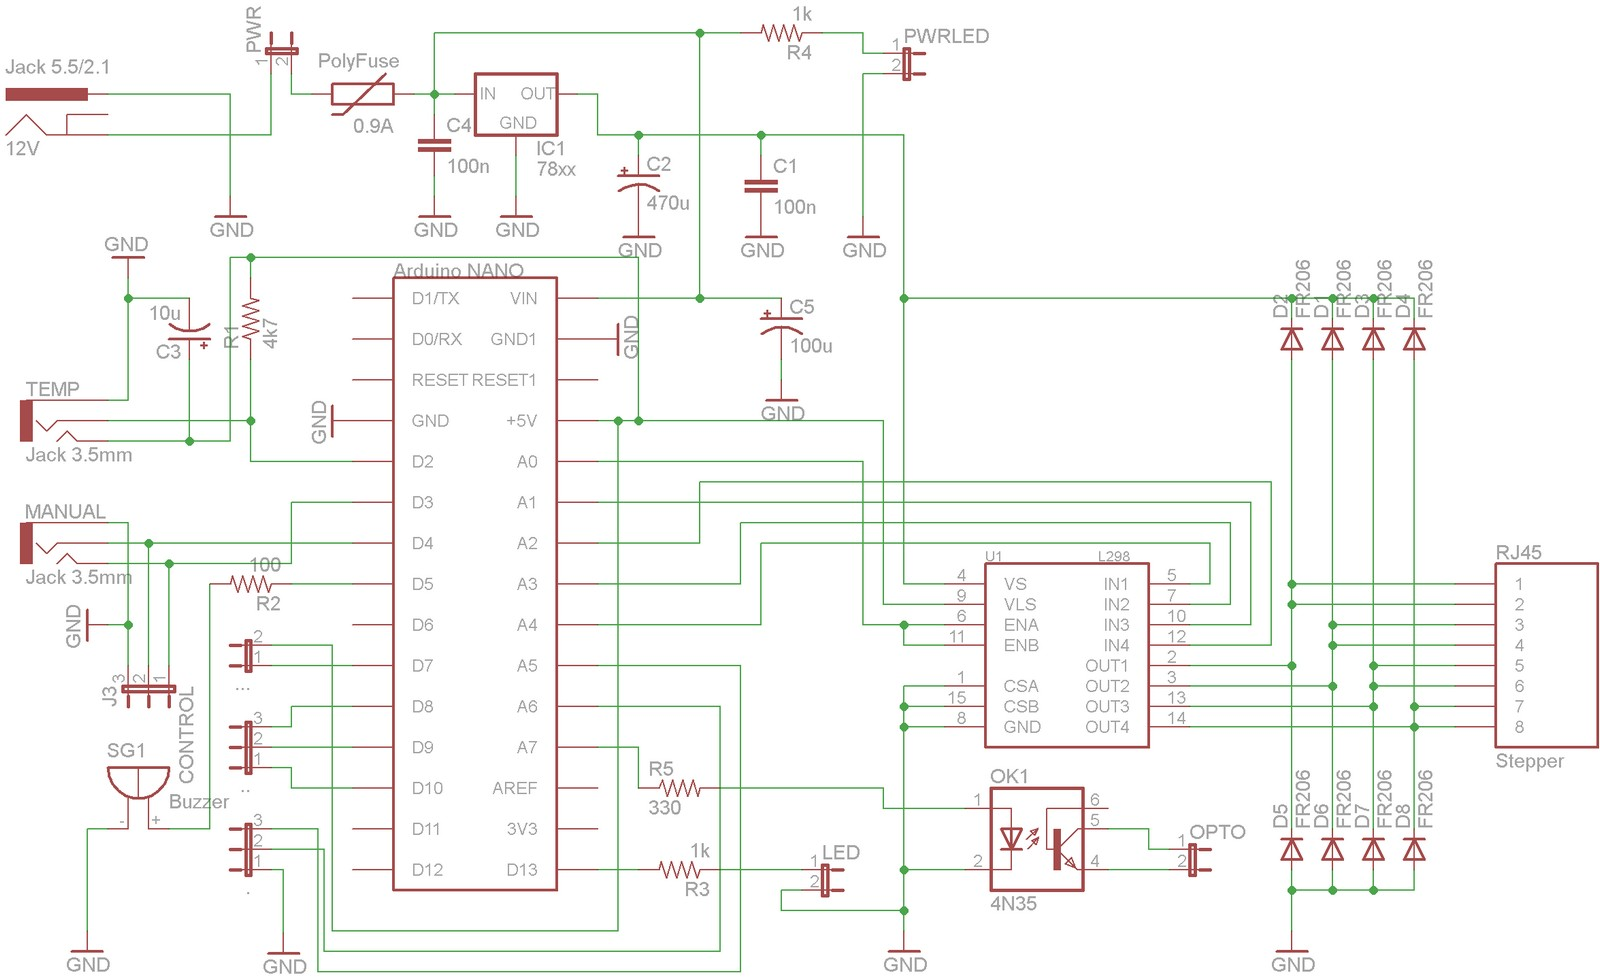
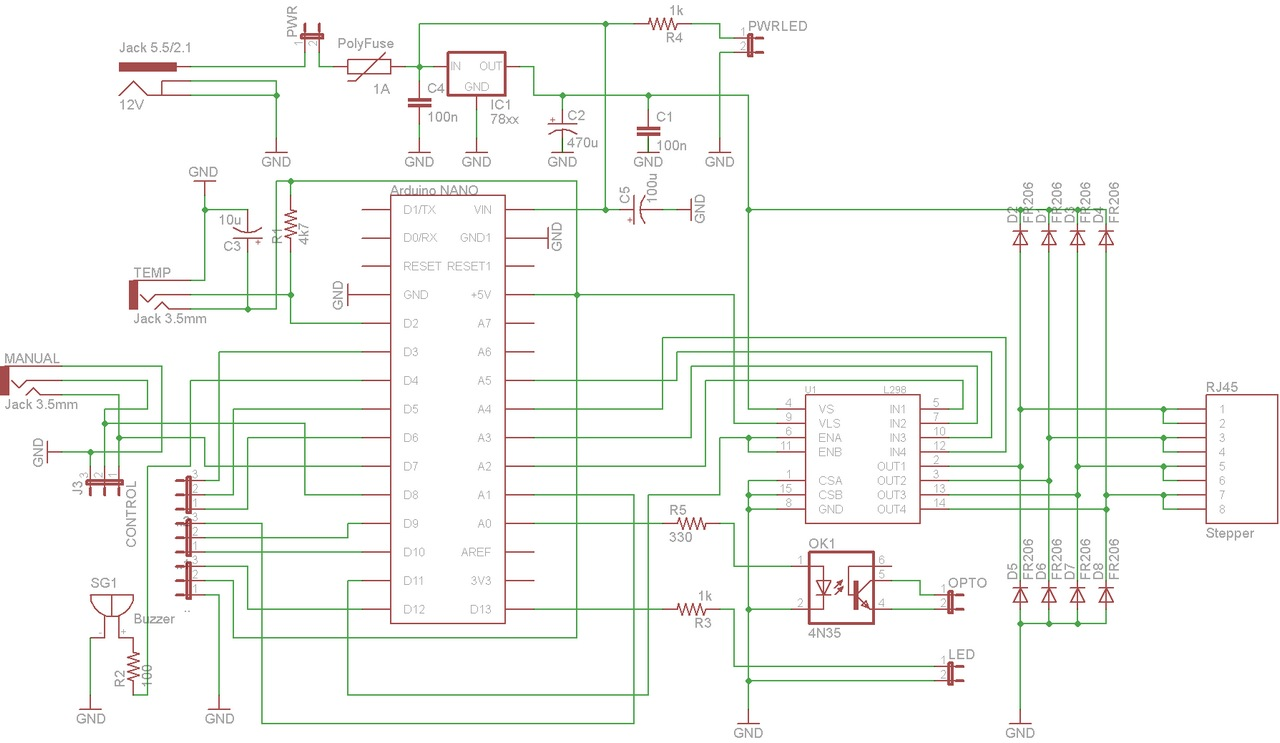
Arduino update

diff --git a/README.md b/README.md
@@ -1,3 +1,9 @@
+ver 2.0 production
+==================
+ - EXT connector extended 
+ - PCB redesigned a little and fixed
+ - encoder support removed from Arduino sketch
+
 ver 1.4
 ==================
 Changelog:
